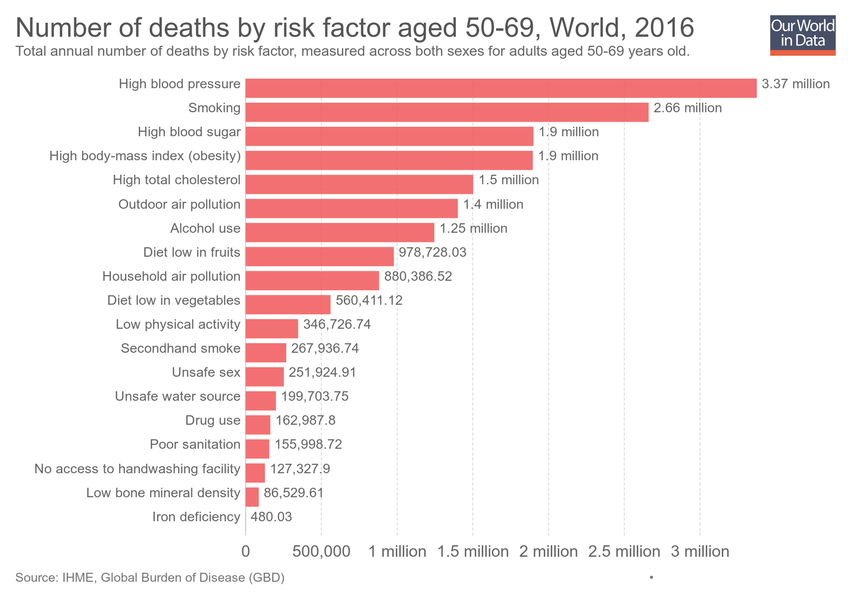
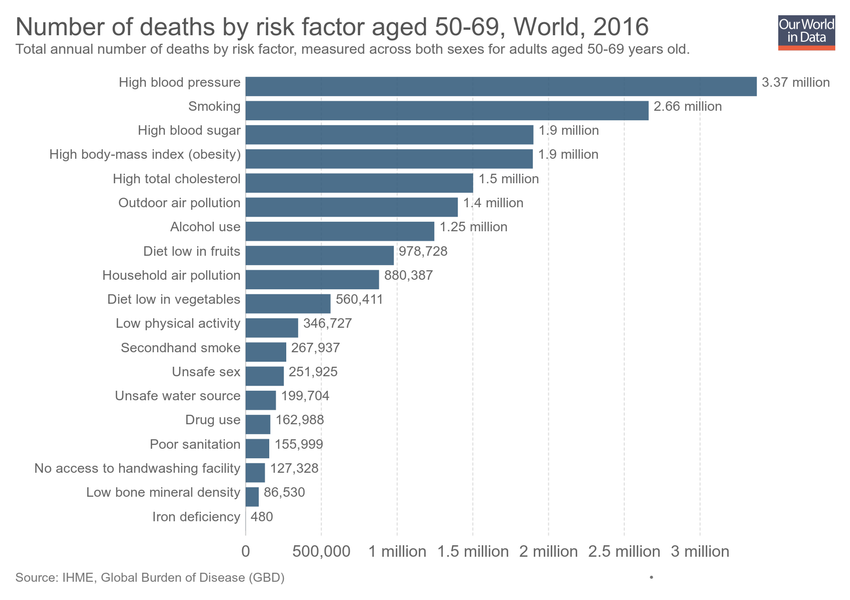
Updating chart deaths-risk-factor-50-69years

Changed region(s): [[0.0, 0.03, 1.0, 0.87], [0.0612, 0.78, 0.1224, 0.81], [0.1529, 0.66, 0.1835, 0.69]]

diff --git a/grapher/deaths-risk-factor-50-69years.html b/grapher/deaths-risk-factor-50-69years.html
@@ -1,4 +1,4 @@
-<!doctype html><html><head><meta name="viewport" content="width=device-width, initial-scale=1" /><title>Number of deaths by risk factor aged 50-69 - Our World in Data</title><meta name="description" content="Total annual number of deaths by risk factor, measured across both sexes for adults aged 50-69 years old." /><link rel="canonical" href="https://ourworldindata.org/grapher/deaths-risk-factor-50-69years" /><meta property="fb:app_id" content="1149943818390250" /><meta property="og:url" content="https://ourworldindata.org/grapher/deaths-risk-factor-50-69years" /><meta property="og:title" content="Number of deaths by risk factor aged 50-69" /><meta property="og:description" content="Total annual number of deaths by risk factor, measured across both sexes for adults aged 50-69 years old." /><meta property="og:image" content="https://ourworldindata.org/grapher/exports/deaths-risk-factor-50-69years.png?v=3" /><meta property="og:image:width" content="850" /><meta property="og:image:height" content="600" /><meta property="og:site_name" content="Our World in Data" /><meta name="twitter:card" content="summary_large_image" /><meta name="twitter:site" content="@OurWorldInData" /><meta name="twitter:creator" content="@OurWorldInData" /><meta name="twitter:title" content="Number of deaths by risk factor aged 50-69" /><meta name="twitter:description" content="Total annual number of deaths by risk factor, measured across both sexes for adults aged 50-69 years old." /><meta name="twitter:image" content="https://ourworldindata.org/grapher/exports/deaths-risk-factor-50-69years.png?v=3" /><style>
+<!doctype html><html><head><meta name="viewport" content="width=device-width, initial-scale=1" /><title>Number of deaths by risk factor aged 50-69 - Our World in Data</title><meta name="description" content="Total annual number of deaths by risk factor, measured across both sexes for adults aged 50-69 years old." /><link rel="canonical" href="https://ourworldindata.org/grapher/deaths-risk-factor-50-69years" /><meta property="fb:app_id" content="1149943818390250" /><meta property="og:url" content="https://ourworldindata.org/grapher/deaths-risk-factor-50-69years" /><meta property="og:title" content="Number of deaths by risk factor aged 50-69" /><meta property="og:description" content="Total annual number of deaths by risk factor, measured across both sexes for adults aged 50-69 years old." /><meta property="og:image" content="https://ourworldindata.org/grapher/exports/deaths-risk-factor-50-69years.png?v=4" /><meta property="og:image:width" content="850" /><meta property="og:image:height" content="600" /><meta property="og:site_name" content="Our World in Data" /><meta name="twitter:card" content="summary_large_image" /><meta name="twitter:site" content="@OurWorldInData" /><meta name="twitter:creator" content="@OurWorldInData" /><meta name="twitter:title" content="Number of deaths by risk factor aged 50-69" /><meta name="twitter:description" content="Total annual number of deaths by risk factor, measured across both sexes for adults aged 50-69 years old." /><meta name="twitter:image" content="https://ourworldindata.org/grapher/exports/deaths-risk-factor-50-69years.png?v=4" /><style>
         html, body {
             height: 100%;
             margin: 0;
@@ -20,8 +20,8 @@
         }
     </style><noscript><style>
                     figure { display: none !important; }
-                </style></noscript><link rel="stylesheet" href="https://ourworldindata.org/grapher/assets/commons.bundle.dcbbe53805c487d5e57617b10ac73a8a.css" /><link rel="preload" href="/grapher/data/variables/64258+64371+64314+64301+63895+64785+63873+64277+64290+64772+63613+64380+63995+64798+64811+64362+64327+64336+64349.json?v=3" as="fetch" crossorigin /></head><body class="singleChart"><figure data-grapher-src="/grapher/deaths-risk-factor-50-69years"></figure><noscript id="fallback"><img src="/grapher/exports/deaths-risk-factor-50-69years.svg" /><p>Interactive visualization requires JavaScript</p></noscript><script src="https://cdn.polyfill.io/v2/polyfill.min.js?features=es6,fetch"></script><script src="https://ourworldindata.org/grapher/assets/commons.bundle.da523acc49807a06a11f.js"></script><script src="https://ourworldindata.org/grapher/assets/charts.bundle.da523acc49807a06a11f.js"></script><script>
-        var jsonConfig = {"id":1698,"map":{"projection":"World","colorSchemeLabels":[],"colorSchemeValues":[],"defaultProjection":"World","colorSchemeMinValue":0,"customNumericColors":[],"customCategoryColors":{},"customCategoryLabels":{},"customHiddenCategories":{}},"tab":"chart","slug":"deaths-risk-factor-50-69years","type":"DiscreteBar","title":"Number of deaths by risk factor aged 50-69","xAxis":{"scaleType":"linear"},"yAxis":{"min":0,"scaleType":"linear"},"version":3,"subtitle":"Total annual number of deaths by risk factor, measured across both sexes for adults aged 50-69 years old.","hasMapTab":false,"originUrl":"","stackMode":"absolute","dimensions":[{"display":{"name":"Iron deficiency","unit":"deaths"},"property":"y","variableId":64258,"numDecimalPlaces":0},{"display":{"name":"Low bone mineral density","unit":"deaths"},"property":"y","variableId":64371,"numDecimalPlaces":0},{"display":{"name":"Drug use","unit":"deaths"},"property":"y","variableId":64314,"numDecimalPlaces":0},{"display":{"name":"Alcohol use","unit":"deaths"},"property":"y","variableId":64301,"numDecimalPlaces":0},{"display":{"name":"No access to handwashing facility","unit":"deaths"},"property":"y","variableId":63895,"numDecimalPlaces":0},{"display":{"name":"Poor sanitation","unit":"deaths"},"property":"y","variableId":64785,"numDecimalPlaces":0},{"display":{"name":"Unsafe sex","unit":"deaths"},"property":"y","variableId":63873,"numDecimalPlaces":0},{"display":{"name":"Smoking","unit":"deaths"},"property":"y","variableId":64277,"numDecimalPlaces":0},{"display":{"name":"Secondhand smoke","unit":"deaths"},"property":"y","variableId":64290,"numDecimalPlaces":0},{"display":{"name":"Unsafe water source","unit":"deaths"},"property":"y","variableId":64772,"numDecimalPlaces":0},{"display":{"name":"Diet low in vegetables","unit":"deaths"},"property":"y","variableId":63613,"numDecimalPlaces":0},{"display":{"name":"Diet low in fruits","unit":"deaths"},"property":"y","variableId":64380,"numDecimalPlaces":0},{"display":{"name":"Low physical activity","unit":"deaths"},"property":"y","variableId":63995,"numDecimalPlaces":0},{"display":{"name":"Outdoor air pollution","unit":"deaths"},"property":"y","variableId":64798,"numDecimalPlaces":0},{"display":{"name":"Household air pollution","unit":"deaths"},"property":"y","variableId":64811,"numDecimalPlaces":0},{"display":{"name":"High body-mass index (obesity)","unit":"deaths"},"property":"y","variableId":64362,"numDecimalPlaces":0},{"display":{"name":"High blood sugar","unit":"deaths"},"property":"y","variableId":64327,"numDecimalPlaces":0},{"display":{"name":"High total cholesterol","unit":"deaths"},"property":"y","variableId":64336,"numDecimalPlaces":0},{"display":{"name":"High blood pressure","unit":"deaths"},"property":"y","variableId":64349,"numDecimalPlaces":0}],"sourceDesc":"IHME, Global Burden of Disease (GBD)","hasChartTab":true,"isPublished":true,"selectedData":[{"index":0,"entityId":355},{"index":1,"entityId":355},{"index":10,"entityId":355},{"index":11,"entityId":355},{"index":12,"entityId":355},{"index":13,"entityId":355},{"index":14,"entityId":355},{"index":15,"entityId":355},{"index":16,"entityId":355},{"index":17,"entityId":355},{"index":18,"entityId":355},{"index":2,"entityId":355},{"index":3,"entityId":355},{"index":4,"entityId":355},{"index":5,"entityId":355},{"index":6,"entityId":355},{"index":7,"entityId":355},{"index":8,"entityId":355},{"index":9,"entityId":355}],"internalNotes":"","addCountryMode":"change-country"};
+                </style></noscript><link rel="stylesheet" href="https://ourworldindata.org/grapher/assets/commons.bundle.dcbbe53805c487d5e57617b10ac73a8a.css" /><link rel="preload" href="/grapher/data/variables/64258+64371+64314+64301+63895+64785+63873+64277+64290+64772+63613+64380+63995+64798+64811+64362+64327+64336+64349.json?v=4" as="fetch" crossorigin /></head><body class="singleChart"><figure data-grapher-src="/grapher/deaths-risk-factor-50-69years"></figure><noscript id="fallback"><img src="/grapher/exports/deaths-risk-factor-50-69years.svg" /><p>Interactive visualization requires JavaScript</p></noscript><script src="https://cdn.polyfill.io/v2/polyfill.min.js?features=es6,fetch"></script><script src="https://ourworldindata.org/grapher/assets/commons.bundle.da523acc49807a06a11f.js"></script><script src="https://ourworldindata.org/grapher/assets/charts.bundle.da523acc49807a06a11f.js"></script><script>
+        var jsonConfig = {"id":1698,"map":{"projection":"World","colorSchemeLabels":[],"colorSchemeValues":[],"colorSchemeMinValue":0,"customNumericColors":[],"customCategoryColors":{},"customCategoryLabels":{},"customHiddenCategories":{}},"tab":"chart","slug":"deaths-risk-factor-50-69years","type":"DiscreteBar","title":"Number of deaths by risk factor aged 50-69","xAxis":{"scaleType":"linear"},"yAxis":{"min":0,"scaleType":"linear"},"version":4,"subtitle":"Total annual number of deaths by risk factor, measured across both sexes for adults aged 50-69 years old.","hasMapTab":false,"originUrl":"","stackMode":"absolute","dimensions":[{"display":{"name":"Iron deficiency","unit":"deaths","numDecimalPlaces":0},"property":"y","variableId":64258},{"display":{"name":"Low bone mineral density","unit":"deaths","numDecimalPlaces":0},"property":"y","variableId":64371},{"display":{"name":"Drug use","unit":"deaths","numDecimalPlaces":0},"property":"y","variableId":64314},{"display":{"name":"Alcohol use","unit":"deaths","numDecimalPlaces":0},"property":"y","variableId":64301},{"display":{"name":"No access to handwashing facility","unit":"deaths","numDecimalPlaces":0},"property":"y","variableId":63895},{"display":{"name":"Poor sanitation","unit":"deaths","numDecimalPlaces":0},"property":"y","variableId":64785},{"display":{"name":"Unsafe sex","unit":"deaths","numDecimalPlaces":0},"property":"y","variableId":63873},{"display":{"name":"Smoking","unit":"deaths","numDecimalPlaces":0},"property":"y","variableId":64277},{"display":{"name":"Secondhand smoke","unit":"deaths","numDecimalPlaces":0},"property":"y","variableId":64290},{"display":{"name":"Unsafe water source","unit":"deaths","numDecimalPlaces":0},"property":"y","variableId":64772},{"display":{"name":"Diet low in vegetables","unit":"deaths","numDecimalPlaces":0},"property":"y","variableId":63613},{"display":{"name":"Diet low in fruits","unit":"deaths","numDecimalPlaces":0},"property":"y","variableId":64380},{"display":{"name":"Low physical activity","unit":"deaths","numDecimalPlaces":0},"property":"y","variableId":63995},{"display":{"name":"Outdoor air pollution","unit":"deaths","numDecimalPlaces":0},"property":"y","variableId":64798},{"display":{"name":"Household air pollution","unit":"deaths","numDecimalPlaces":0},"property":"y","variableId":64811},{"display":{"name":"High body-mass index (obesity)","unit":"deaths","numDecimalPlaces":0},"property":"y","variableId":64362},{"display":{"name":"High blood sugar","unit":"deaths","numDecimalPlaces":0},"property":"y","variableId":64327},{"display":{"name":"High total cholesterol","unit":"deaths","numDecimalPlaces":0},"property":"y","variableId":64336},{"display":{"name":"High blood pressure","unit":"deaths","numDecimalPlaces":0},"property":"y","variableId":64349}],"sourceDesc":"IHME, Global Burden of Disease (GBD)","hasChartTab":true,"isPublished":true,"selectedData":[{"index":0,"entityId":355},{"index":1,"entityId":355},{"index":10,"entityId":355},{"index":11,"entityId":355},{"index":12,"entityId":355},{"index":13,"entityId":355},{"index":14,"entityId":355},{"index":15,"entityId":355},{"index":16,"entityId":355},{"index":17,"entityId":355},{"index":18,"entityId":355},{"index":2,"entityId":355},{"index":3,"entityId":355},{"index":4,"entityId":355},{"index":5,"entityId":355},{"index":6,"entityId":355},{"index":7,"entityId":355},{"index":8,"entityId":355},{"index":9,"entityId":355}],"internalNotes":"","addCountryMode":"change-country"};
         var figure = document.getElementsByTagName("figure")[0];
         try {
             window.App = {};
